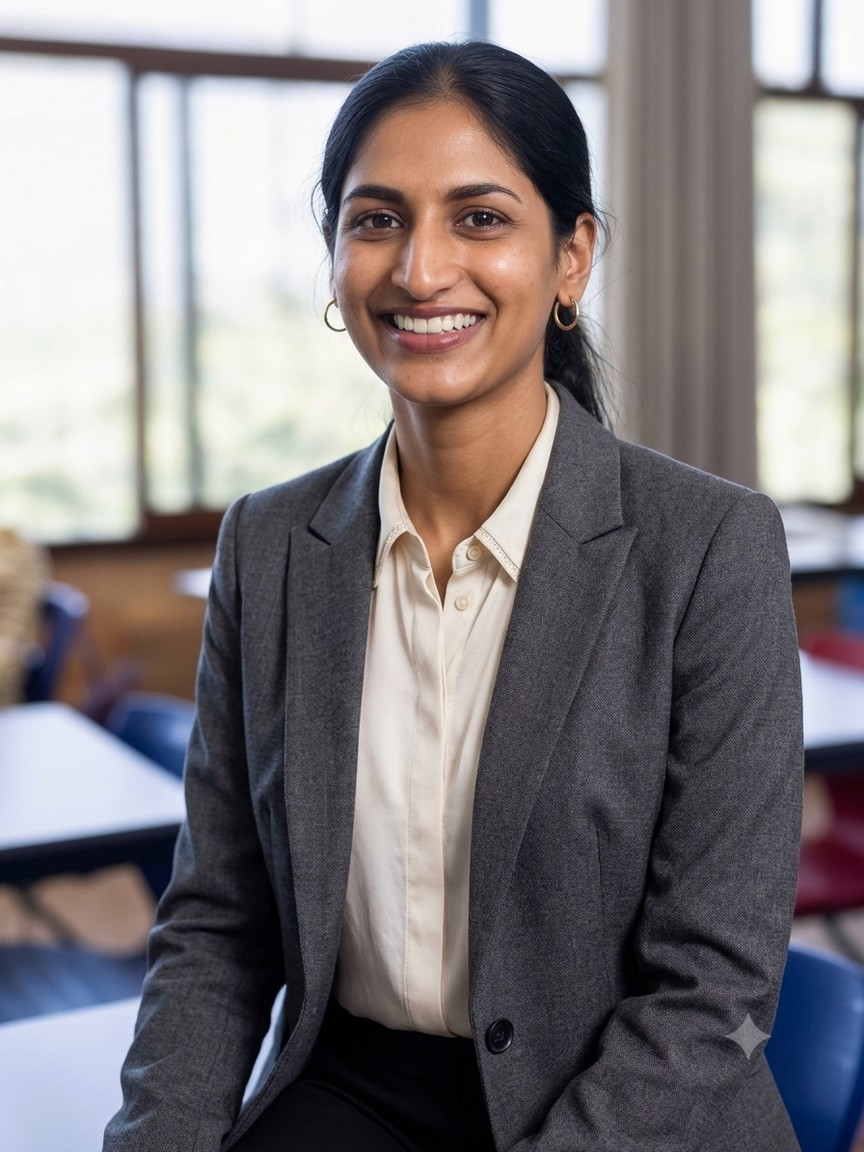
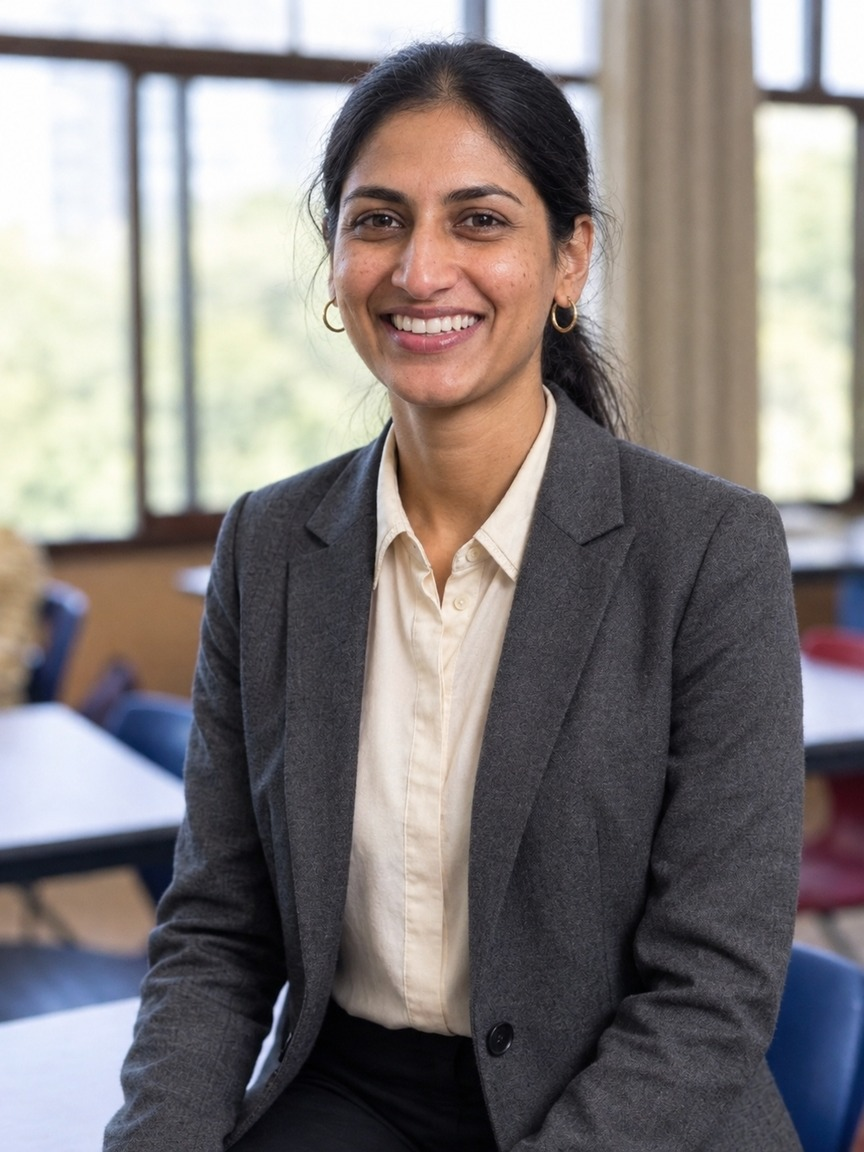
Set Neha Kapoor instructor DP from user photo ref-2 (desk142).
Replace site + Flutter mentor JPEGs with the new user likeness (crop/resize only), bump Neha ?v=9 and app.js cache to desk142.

diff --git a/js/app.js b/js/app.js
@@ -809,7 +809,7 @@ const COVERS = {
 
 const MENTORS = [
   { name: "Aarav Mehta", role: "Full-time trader", tag: "Intraday", img: "/img/instructors/aarav-mehta.jpg?v=7" },
-  { name: "Neha Kapoor", role: "Options specialist", tag: "Income strategies", img: "/img/instructors/neha-kapoor.jpg?v=8" },
+  { name: "Neha Kapoor", role: "Options specialist", tag: "Income strategies", img: "/img/instructors/neha-kapoor.jpg?v=9" },
   { name: "Vikram Singh", role: "Price action coach", tag: "Swing trading", img: "/img/instructors/vikram-singh.jpg?v=1" },
   { name: "Ananya Rao", role: "Long-term investor", tag: "Portfolio", img: "https://images.unsplash.com/photo-1573496359142-b8d87734a5a2?auto=format&fit=crop&w=640&h=860&q=80" },
   { name: "Kabir Joshi", role: "Index options", tag: "Bank Nifty", img: "/img/instructors/kabir-joshi.jpg?v=9" },
@@ -4927,6 +4927,7 @@ function traderIcon(kind) {
 /* cache-bust desk139: complete right hand on midriff (same zoom/center) /img/instructors/rohan-desai.jpg?v=13 */
 /* cache-bust desk140: Neha Kapoor DP from user photo ref (site 640x860 + flutter 864x1152) /img/instructors/neha-kapoor.jpg?v=8 */
 /* cache-bust desk141: Vikram Singh DP from user photo ref (site 640x860 + flutter 864x1152) /img/instructors/vikram-singh.jpg?v=1 */
+/* cache-bust desk142: Neha Kapoor DP from user photo ref-2 (site 640x860 + flutter 864x1152) /img/instructors/neha-kapoor.jpg?v=9 */
 function traderCardHTML(m, i, opts = {}) {
   const title = String(m.role || m.tag || "Mentor").trim();
   const cloneAttrs = opts.clone ? ' tabindex="-1" aria-hidden="true"' : "";

diff --git a/account.html b/account.html
@@ -17,7 +17,7 @@
   <div id="site-header"></div>
   <main id="accountRoot" class="ld-page"></main>
   <div id="site-footer"></div>
-  <script src="/js/app.js?v=desk141" defer></script>
+  <script src="/js/app.js?v=desk142" defer></script>
   <script src="/js/lms.js?v=cert2" defer></script>
 </body>
 </html>

diff --git a/learning.html b/learning.html
@@ -17,7 +17,7 @@
   <div id="site-header"></div>
   <main id="myLearning" class="ld-page"></main>
   <div id="site-footer"></div>
-  <script src="/js/app.js?v=desk141" defer></script>
+  <script src="/js/app.js?v=desk142" defer></script>
   <script src="/js/lms.js?v=cert2" defer></script>
 </body>
 </html>

diff --git a/course.html b/course.html
@@ -22,7 +22,7 @@
     </div>
   </main>
   <div id="site-footer"></div>
-  <script src="/js/app.js?v=desk141" defer></script>
+  <script src="/js/app.js?v=desk142" defer></script>
   <script src="/js/lms.js?v=cert2" defer></script>
   <script src="/js/drm.js?v=desk29" defer></script>
 </body>

diff --git a/contact.html b/contact.html
@@ -48,7 +48,7 @@
   </main>
   <div id="site-footer"></div>
   <script src="/js/help-faqs.js?v=faq1" defer></script>
-  <script src="/js/app.js?v=desk141" defer></script>
+  <script src="/js/app.js?v=desk142" defer></script>
   <script src="/js/lms.js" defer></script>
 </body>
 </html>

diff --git a/certificate.html b/certificate.html
@@ -19,7 +19,7 @@
     <div id="certRoot"></div>
   </main>
   <div id="site-footer"></div>
-  <script src="/js/app.js?v=desk141" defer></script>
+  <script src="/js/app.js?v=desk142" defer></script>
   <script src="/js/lms.js?v=cert2" defer></script>
 </body>
 </html>

diff --git a/control.html b/control.html
@@ -253,7 +253,7 @@
         loading = true;
         busy(true);
         var files = [
-          "/js/app.js?v=desk141",
+          "/js/app.js?v=desk142",
           "/js/lms.js",
           "/js/admin-core.js?v=desk8",
           "/js/admin.js?v=drm5",

diff --git a/index.html b/index.html
@@ -415,7 +415,7 @@
     </section>
   </main>
   <div id="site-footer"></div>
-  <script src="/js/app.js?v=desk141" defer></script>
+  <script src="/js/app.js?v=desk142" defer></script>
   <script src="/js/lms.js?v=cert2" defer></script>
 </body>
 </html>

diff --git a/live-room.html b/live-room.html
@@ -22,7 +22,7 @@
 </head>
 <body class="live-room-page">
   <div id="liveRoom"></div>
-  <script src="/js/app.js?v=desk141" defer></script>
+  <script src="/js/app.js?v=desk142" defer></script>
   <script src="/js/lms.js" defer></script>
 </body>
 </html>

diff --git a/nifty-options.html b/nifty-options.html
@@ -44,7 +44,7 @@
     </section>
   </main>
   <div id="site-footer"></div>
-  <script src="/js/app.js?v=desk141" defer></script>
+  <script src="/js/app.js?v=desk142" defer></script>
   <script src="/js/lms.js?v=cert2" defer></script>
 </body>
 </html>

diff --git a/option-trading-course.html b/option-trading-course.html
@@ -44,7 +44,7 @@
     </section>
   </main>
   <div id="site-footer"></div>
-  <script src="/js/app.js?v=desk141" defer></script>
+  <script src="/js/app.js?v=desk142" defer></script>
   <script src="/js/lms.js?v=cert2" defer></script>
 </body>
 </html>

diff --git a/share-market-course-in-hindi.html b/share-market-course-in-hindi.html
@@ -42,7 +42,7 @@
     </section>
   </main>
   <div id="site-footer"></div>
-  <script src="/js/app.js?v=desk141" defer></script>
+  <script src="/js/app.js?v=desk142" defer></script>
   <script src="/js/lms.js?v=cert2" defer></script>
 </body>
 </html>
